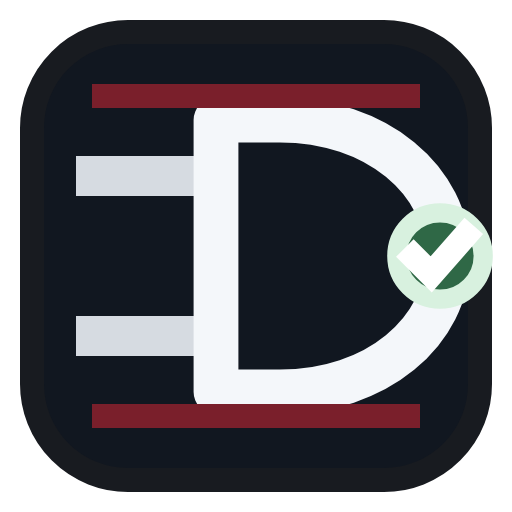
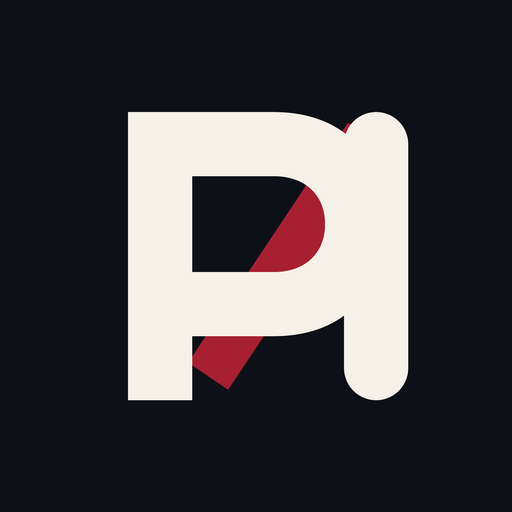
Update SVG assets and styles for improved branding and consistency

diff --git a/assets/styles.css b/assets/styles.css
@@ -76,15 +76,15 @@ a:hover { color: var(--accent); }
 .brand-mark {
   width: 42px;
   height: 42px;
-  border-radius: var(--radius-md);
+  border-radius: 10px;
   display: grid;
   place-items: center;
-  background: #111720;
-  border: 1px solid #303844;
-  box-shadow: inset 0 0 0 1px rgba(255, 255, 255, .06);
+  background: transparent;
+  border: 0;
+  box-shadow: 0 8px 22px rgba(13, 17, 23, .14);
   overflow: hidden;
 }
-.brand-mark img { width: 38px; height: 38px; display: block; }
+.brand-mark img { width: 42px; height: 42px; display: block; }
 .brand-text strong {
   display: block;
   color: var(--ink-strong);